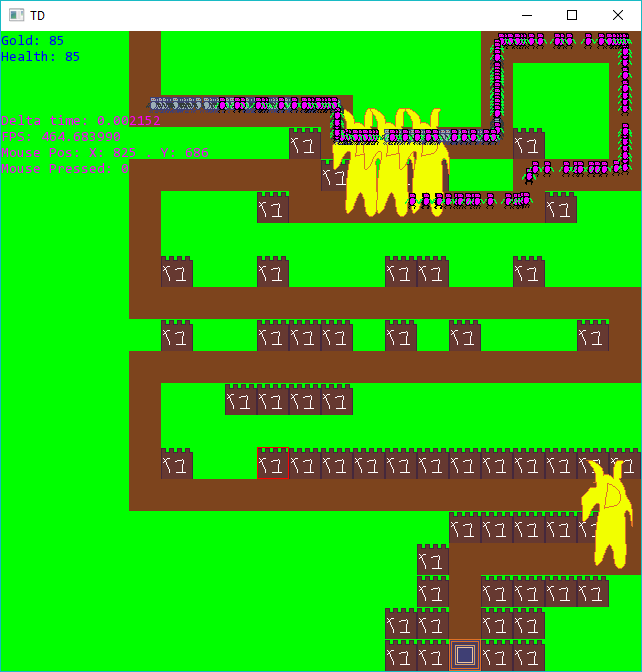
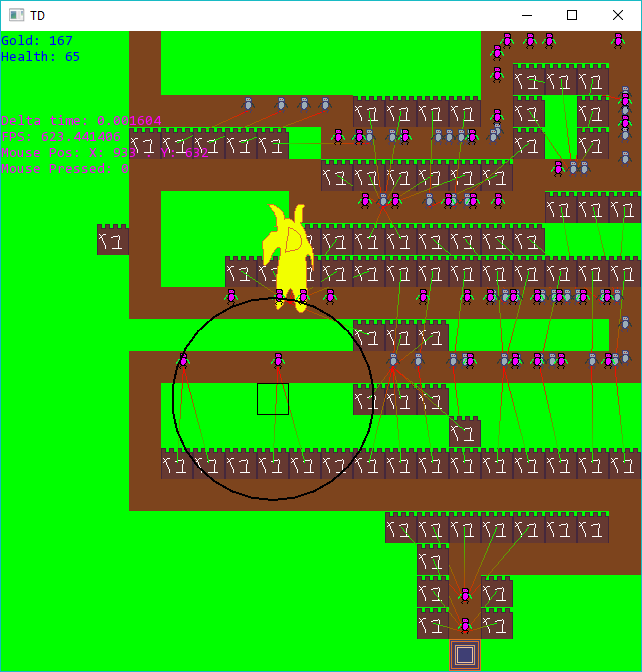
UPDATE: Image.

diff --git a/game/source/td.cpp b/game/source/td.cpp
@@ -39,7 +39,8 @@ void Td::Initialise()
 	cursor.setPosition(0, 0);
 	cursor.setOrigin(16, 16);
 
-	towerRadius.setRadius(1);
+	towerRadius.setRadius(towerTypes[0].radius);
+	towerRadius.setOrigin(towerTypes[0].radius, towerTypes[0].radius);
 	towerRadius.setFillColor(sf::Color::Transparent);
 	towerRadius.setOutlineColor(sf::Color::Black);
 	towerRadius.setOutlineThickness(2.f);
